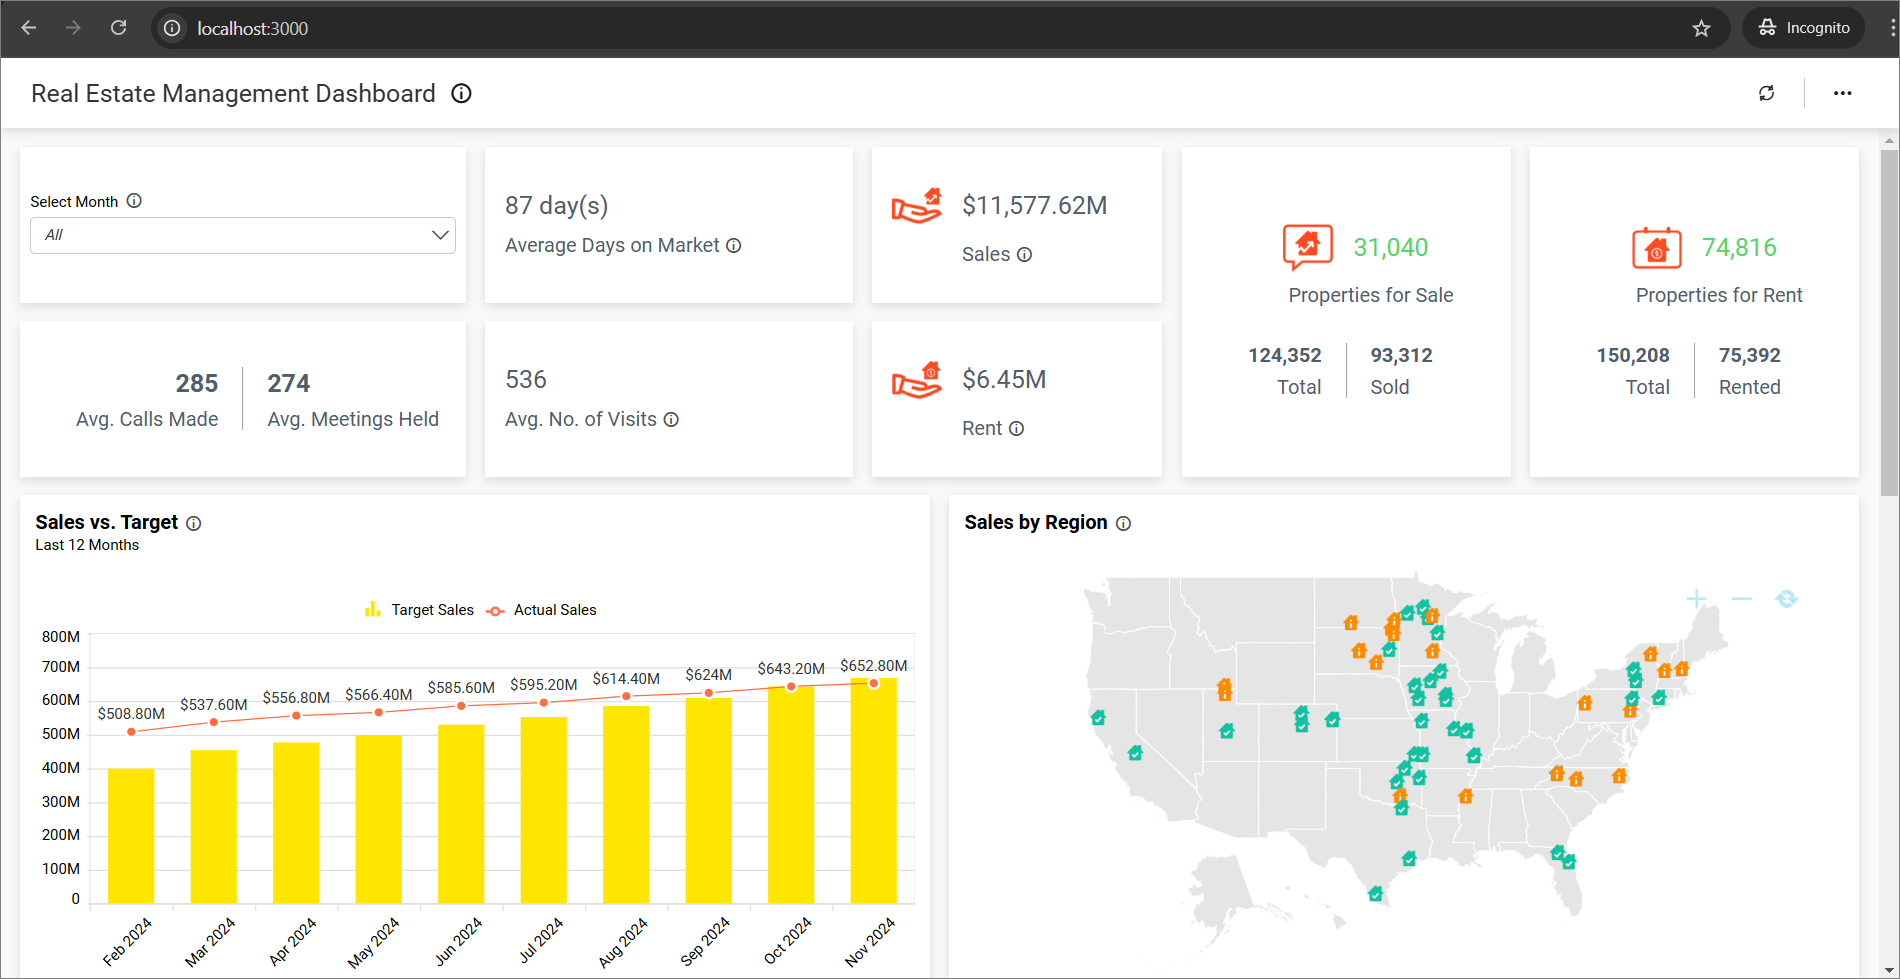
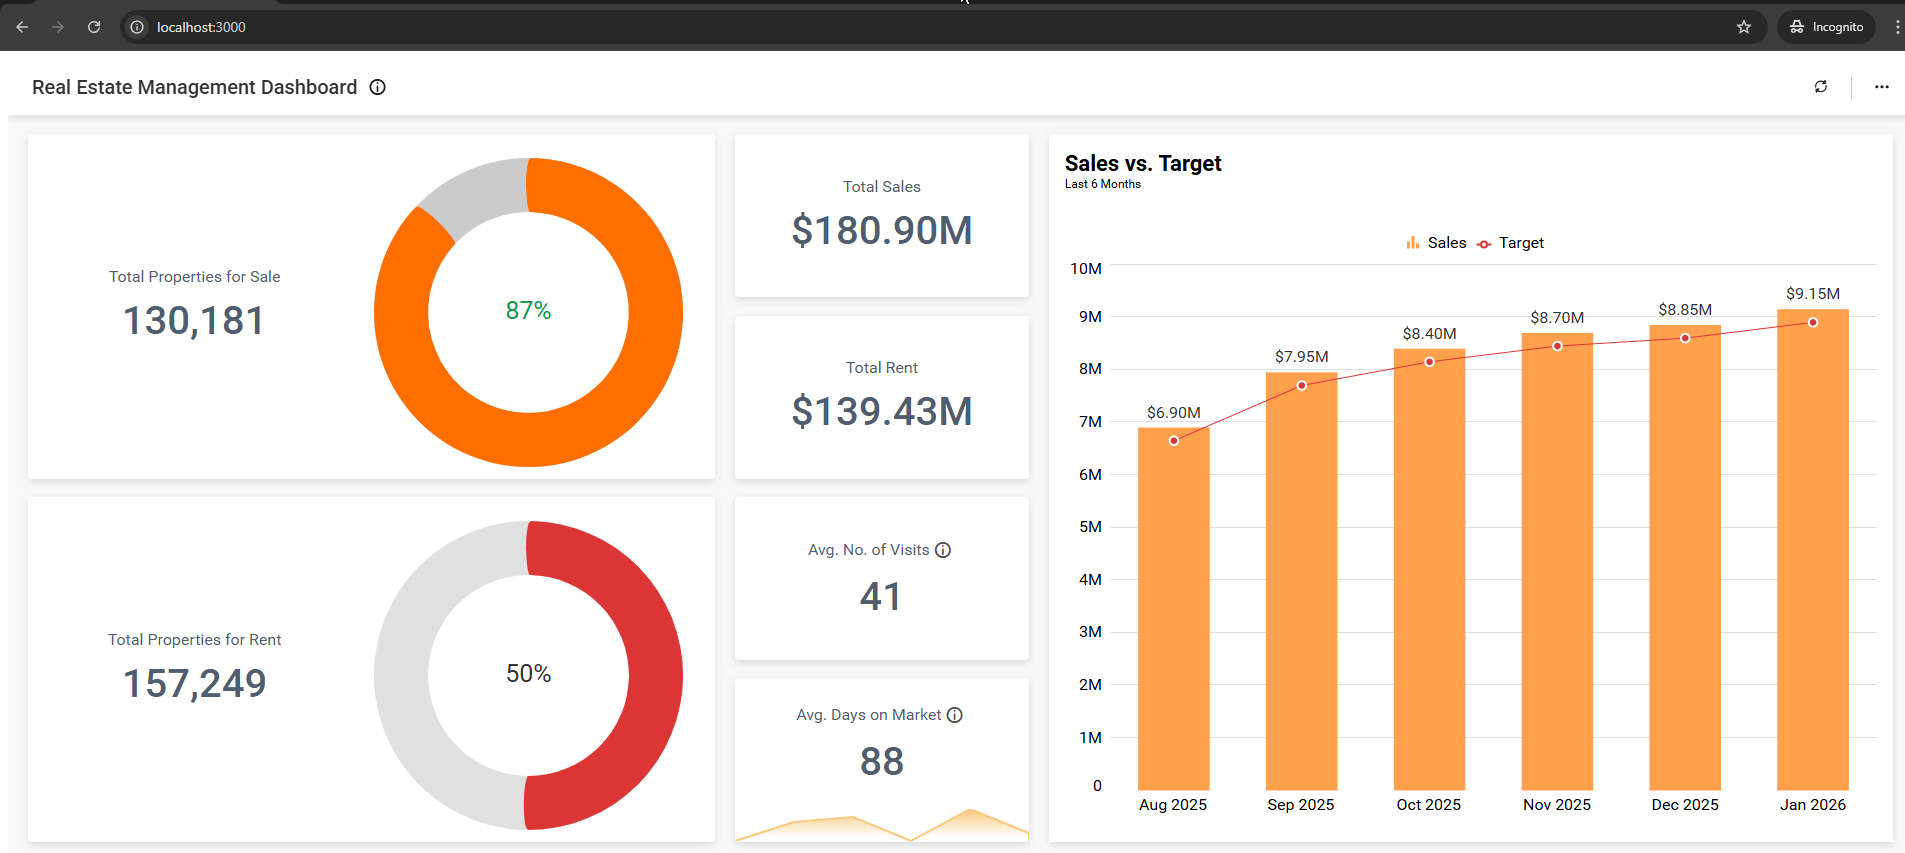
updated sample with embedtoken

diff --git a/rest/tokengeneration.php b/rest/tokengeneration.php
@@ -1,0 +1,81 @@
+<?php
+
+$jsonData = file_get_contents('embedConfig.json');
+
+if ($jsonData === false) {
+    header('Content-Type: application/json');
+    http_response_code(500);
+    echo json_encode(array('error' => 'embedConfig.json file not found.'));
+    exit(1);
+}
+
+// Remove UTF-8 BOM if present
+if (substr($jsonData, 0, 3) === "\xEF\xBB\xBF") {
+    $jsonData = substr($jsonData, 3);
+}
+
+$appConfig = json_decode($jsonData, true);
+if (json_last_error() !== JSON_ERROR_NONE) {
+    header('Content-Type: application/json');
+    http_response_code(500);
+    echo json_encode(array(
+        'error' => 'Could not parse embedConfig.json',
+        'json_error' => json_last_error_msg()
+    ));
+    exit(1);
+}
+
+// Handle CORS preflight
+if ($_SERVER['REQUEST_METHOD'] === 'OPTIONS') {
+    header('Access-Control-Allow-Origin: *');
+    header('Access-Control-Allow-Methods: POST, GET, DELETE, PUT, PATCH, OPTIONS');
+    header('Access-Control-Allow-Headers: token, Content-Type');
+    header('Access-Control-Max-Age: 1728000');
+    header('Content-Length: 0');
+    header('Content-Type: text/plain');
+    die();
+}
+
+// Set response headers
+header('Access-Control-Allow-Origin: *');
+header('Content-Type: text/plain'); // ✅ Plain text for token
+
+echo getToken($appConfig);
+
+function getToken($config)
+{
+    $embedDetails = [
+        "email" => $config['UserEmail'],
+        "serverurl" => $config['ServerUrl'],
+        "siteidentifier" => $config['SiteIdentifier'],
+        "embedsecret" => $config['EmbedSecret'],
+        "dashboard" => [
+            "id" => $config['DashboardId']
+        ]
+    ];
+
+    // Send POST request to Bold BI server
+    $ch = curl_init();
+    curl_setopt($ch, CURLOPT_URL, $embedDetails["serverurl"] . "/api/" . $embedDetails["siteidentifier"] . "/embed/authorize");
+    curl_setopt($ch, CURLOPT_POST, true);
+    curl_setopt($ch, CURLOPT_RETURNTRANSFER, true);
+    curl_setopt($ch, CURLOPT_HTTPHEADER, [
+        'Content-Type: application/json'
+    ]);
+    curl_setopt($ch, CURLOPT_POSTFIELDS, json_encode($embedDetails));
+    curl_setopt($ch, CURLOPT_SSL_VERIFYHOST, 0);
+    curl_setopt($ch, CURLOPT_SSL_VERIFYPEER, 0);
+
+    $response = curl_exec($ch);
+
+    if (curl_errno($ch)) {
+        curl_close($ch);
+        return "Error: " . curl_error($ch);
+    }
+
+    curl_close($ch);
+
+    // Decode JSON and extract token
+    $decoded = json_decode($response, true);
+    return $decoded['Data']['access_token'] ?? "Error: Token not found";
+}

diff --git a/index.php b/index.php
@@ -1,6 +1,6 @@
 <?php
 $apiHost = "http://localhost:3000";
-$authorizeServerUrl = $apiHost . "/rest/authorizeserver.php";
+$tokenGenerationUrl = $apiHost . "/rest/tokengeneration.php";
 $getDataUrl = $apiHost . "/rest/getData.php";
 ?>
 
@@ -16,7 +16,7 @@ $getDataUrl = $apiHost . "/rest/getData.php";
         async function Init() {
             try {
                 // Fetch data from the PHP backend
-                const response = await fetch('<?php echo $getDataUrl;?>');
+                const response = await fetch('<?php echo $getDataUrl; ?>');
                 // Check if the response is okay
                 if (!response.ok) {
                     throw new Error("Network response was not ok");
@@ -31,19 +31,32 @@ $getDataUrl = $apiHost . "/rest/getData.php";
             }
         }
 
-        function renderDashboard(data) {
-            this.dashboard = BoldBI.create({
-                serverUrl: data.ServerUrl + "/" + data.SiteIdentifier,
-                dashboardId: data.DashboardId,
-                embedContainerId: "dashboard",
-                width: "100%",
-                height: window.innerHeight + 'px',
-                authorizationServer: {
-                    url: '<?php echo $authorizeServerUrl;?>'
-                }
-            });
+        function getEmbedToken() {
+            return fetch('<?php echo $tokenGenerationUrl; ?>', {
+                    method: 'POST',
+                    headers: {
+                        'Content-Type': 'application/json'
+                    },
+                    body: JSON.stringify({})
+                })
+                .then(response => {
+                    if (!response.ok) throw new Error("Token fetch failed");
+                    return response.text();
+                });
+        }
 
-            this.dashboard.loadDashboard();
+        function renderDashboard(data) {
+            getEmbedToken().then(accessToken => {
+                var boldbiEmbedInstance = BoldBI.create({
+                    serverUrl: data.ServerUrl + "/" + data.SiteIdentifier,
+                    dashboardId: data.DashboardId,
+                    embedContainerId: "dashboard",
+                    embedToken: accessToken
+                });
+                boldbiEmbedInstance.loadDashboard();
+            }).catch(err => {
+                console.error("Failed to get embed token:", err);
+            });
         }
     </script>
 </body>

diff --git a/rest/getData.php b/rest/getData.php
@@ -15,12 +15,20 @@ if ($data === false) {
     exit();
 }
 
+// Remove UTF-8 BOM if present (safe byte-level check)
+if (substr($data, 0, 3) === "\xEF\xBB\xBF") {
+    $data = substr($data, 3);
+}
+
 // Parse the JSON data
 $dataArray = json_decode($data, true);
 
 if (json_last_error() !== JSON_ERROR_NONE) {
     http_response_code(500); // Internal Server Error
-    echo json_encode(array("error" => "Could not parse the JSON data."));
+    echo json_encode(array(
+        "error" => "Could not parse the JSON data.",
+        "json_error" => json_last_error_msg()
+    ));
     exit();
 }
 
